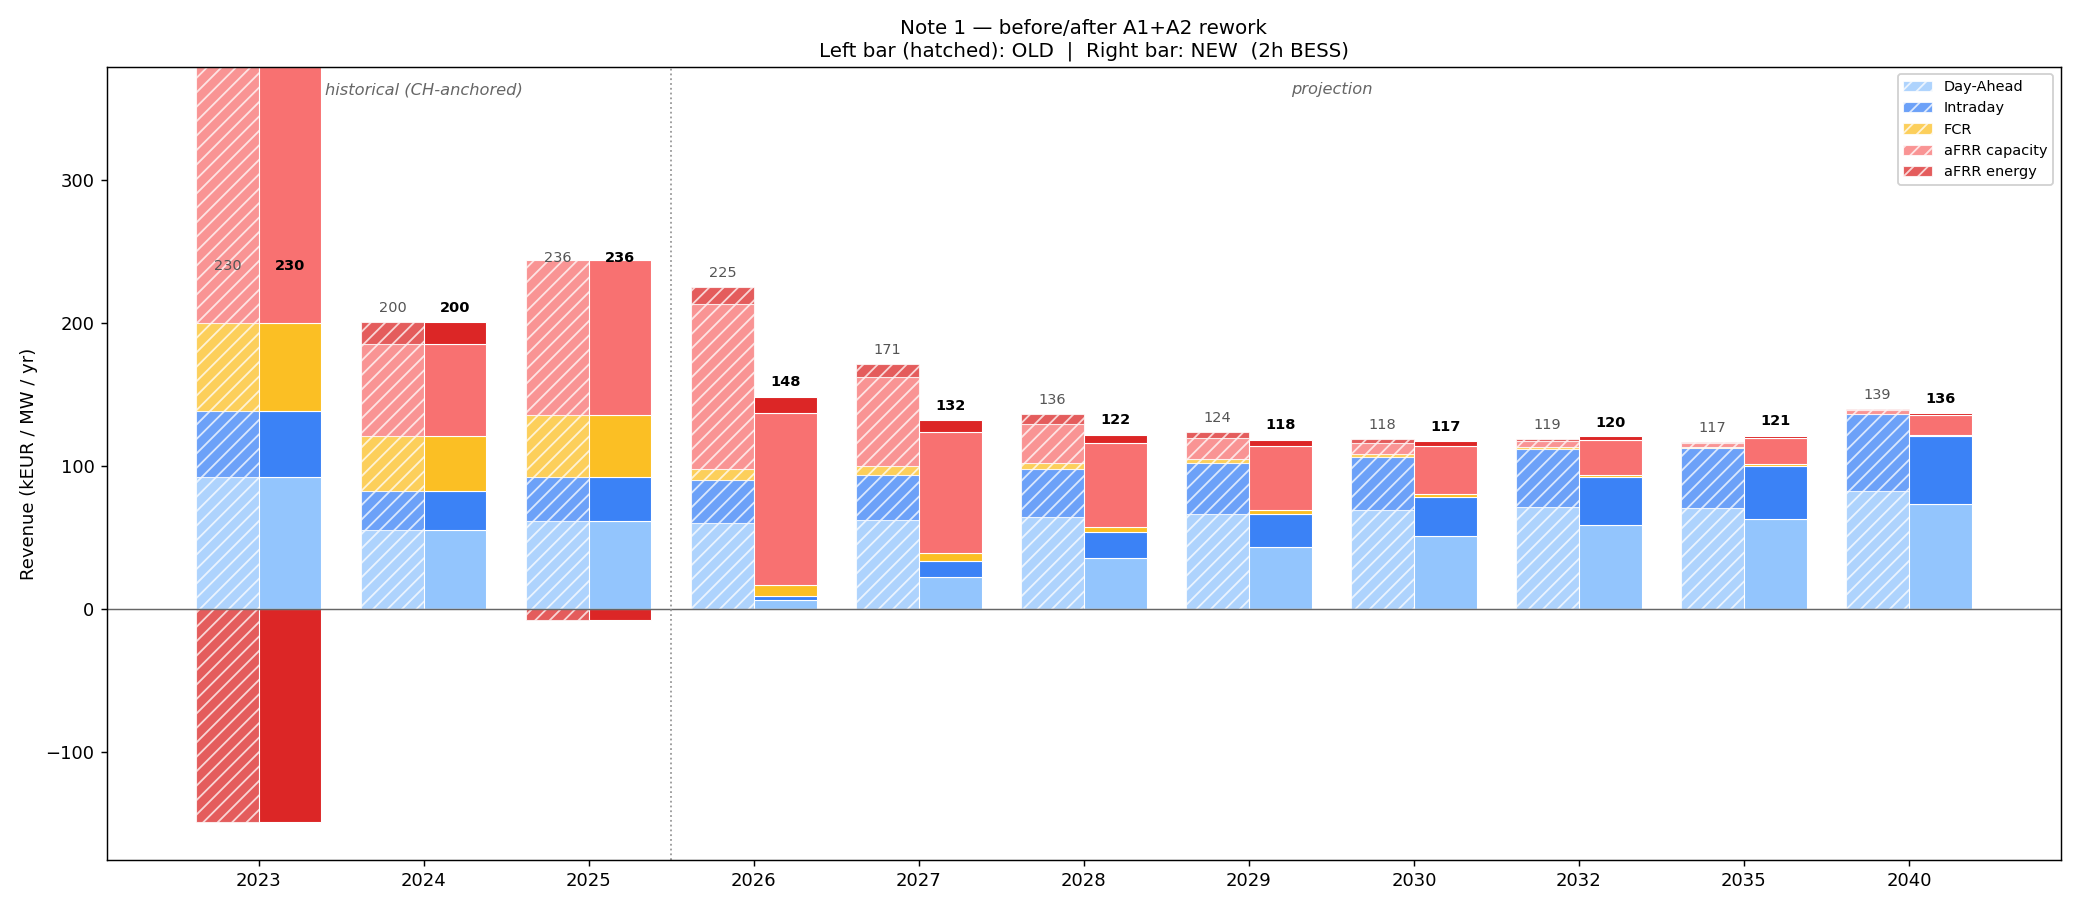
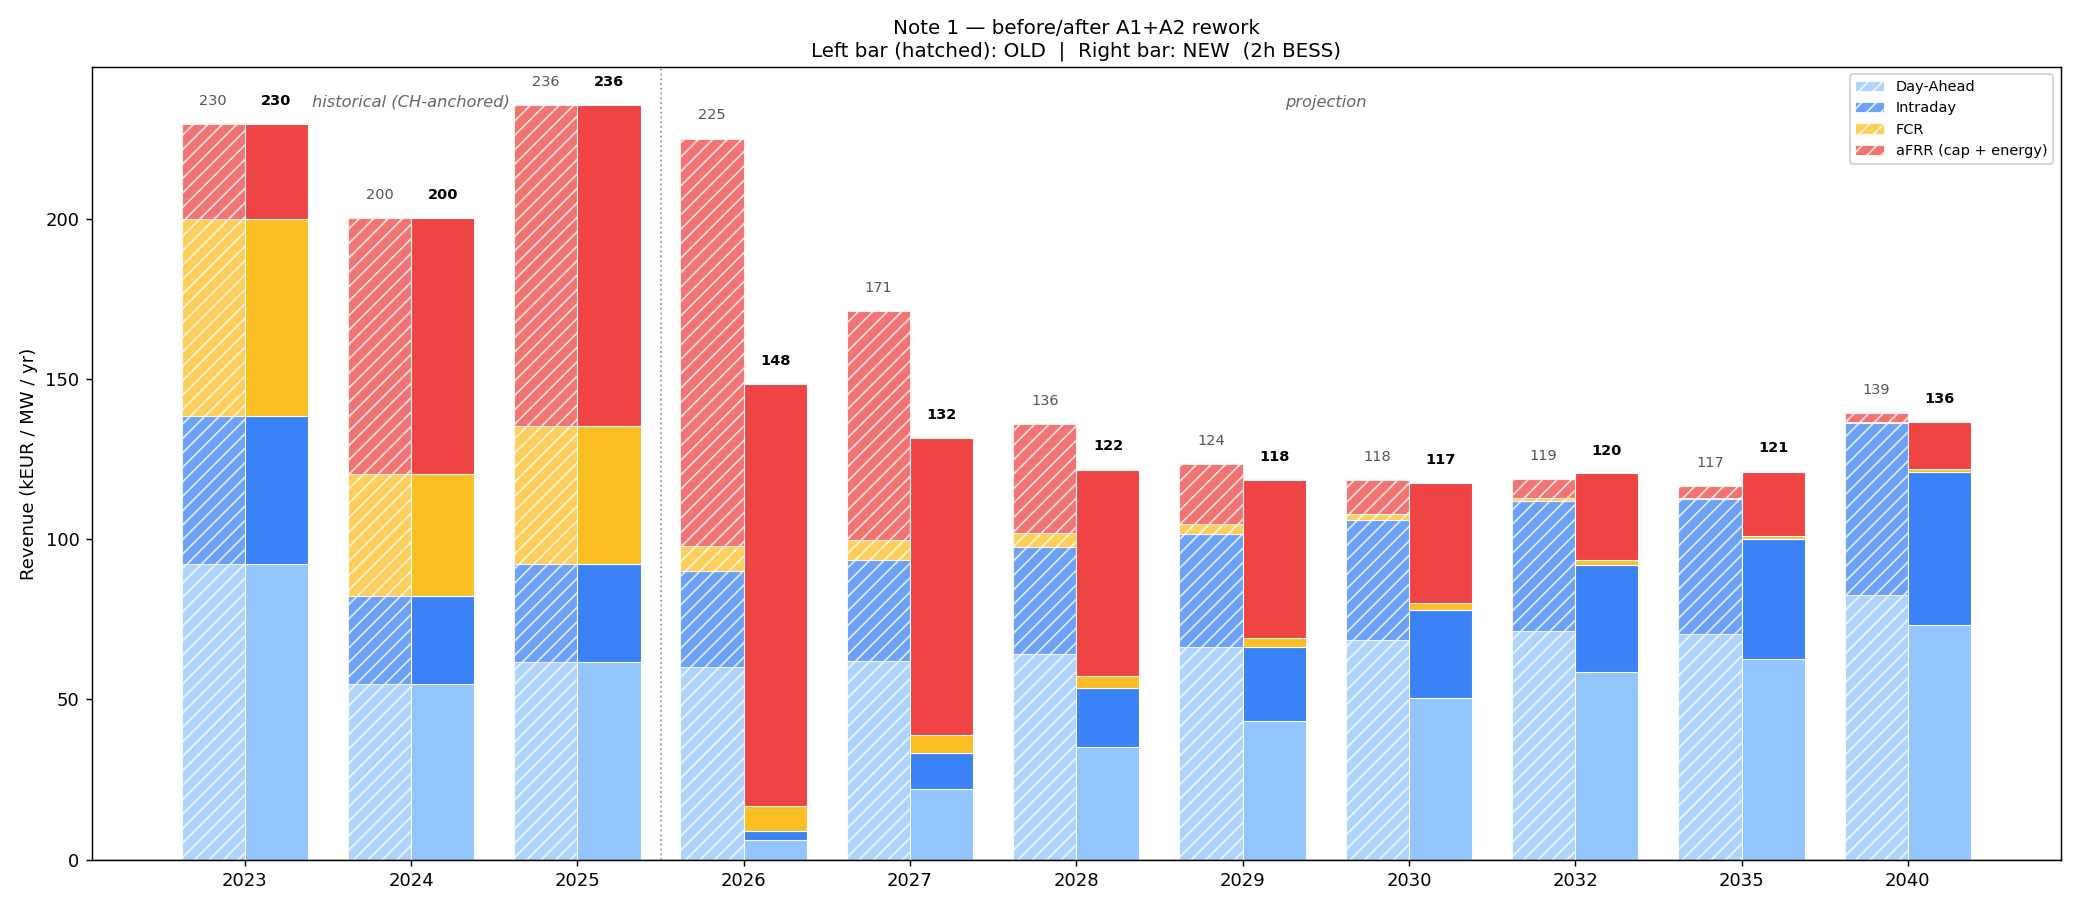
Note 1 deploy prep: combine aFRR cap+energy in stacked chart; source CAPEX
Visual correctness issue flagged by Anton: the stacked revenue chart
silently clipped negative aFRR energy values (yaxis range=[0, y_max]),
producing bars that visually sum to ~320 kEUR with total label 230 —
confusing readers. Cannot deploy as-is.

Fix: combine aFRR_cap + aFRR_energy into single "aFRR (cap + energy)"
bar at the display layer. Economically correct (net aFRR contribution
after activation-energy cost), visually always positive. The cap-vs-
energy split remains in the projection data (r26['afrr_cap'],
r26['afrr_energy']) for text and methodology references — only the
stacked chart geometry changed.

  STACK_KEYS: ["da","id","fcr","afrr_cap","afrr_energy"]
           → ["da","id","fcr","afrr"]

Also: replace the hardcoded "€200k/MW" CAPEX figure at Section 4 with a
sourced range "€180–230k/MW (BNEF 2H2024 LCOES and Lazard LCOS v17 for
Europe)". Closes the ROADMAP Note 1 improvement item "Source the €200k/MW
CAPEX assumption".

Before/after chart regenerated with the combined bar; historical 2023
aFRR bar visibly smaller (net 19 kEUR = cap 114 + energy -95); DA/FCR
grow correspondingly under s factor. 2026 projection now clearly shows
aFRR-cap-dominant equilibrium (f_on_as=0.9).

diff --git a/notes/de-bess-outlook/app.py b/notes/de-bess-outlook/app.py
@@ -145,15 +145,40 @@ proj_df = pd.DataFrame(proj)
 if not hist_bars_df.empty:
     proj_df = pd.concat([hist_bars_df, proj_df], ignore_index=True)
 
+
+def _add_afrr_combined(df: pd.DataFrame) -> pd.DataFrame:
+    """Adds `afrr = afrr_cap + afrr_energy` column — see STACK_KEYS comment
+    below for why we combine the two at the chart layer."""
+    if df.empty or "afrr" in df.columns:
+        return df
+    out = df.copy()
+    if "afrr_cap" in out.columns:
+        out["afrr"] = out["afrr_cap"].fillna(0) + out.get("afrr_energy", 0).fillna(0) \
+            if "afrr_energy" in out.columns else out["afrr_cap"].fillna(0)
+    return out
+
+
+proj_df = _add_afrr_combined(proj_df)
+
 # ── Chart setup ──────────────────────────────────────────────
-STACK_KEYS = ["da", "id", "fcr", "afrr_cap", "afrr_energy"]
+# aFRR capacity and aFRR energy are combined into one `afrr` bar. In years
+# when wholesale spreads justified paying for NEG-activation charge (e.g.
+# 2023), aFRR energy alone is NET NEGATIVE because operators pay TSO more
+# than they earn from POS discharge — the absorbed energy is then
+# recaptured through DA/ID peak-hour resale (the aFRR↔wholesale conjugate
+# coupling). Displaying aFRR energy as a negative stack bar alongside
+# positive components confuses readers and is clipped by the axis range
+# anyway. Combining gives the economically correct net aFRR contribution
+# per MW, at the cost of hiding the cap-vs-energy split (retained in
+# methodology copy and tooltips).
+STACK_KEYS = ["da", "id", "fcr", "afrr"]
 LABELS = {
     "da": "Day-Ahead", "id": "Intraday",
-    "fcr": "FCR", "afrr_cap": "aFRR capacity", "afrr_energy": "aFRR energy",
+    "fcr": "FCR", "afrr": "aFRR (cap + energy)",
 }
 COLORS = {
     "da": "#93c5fd", "id": "#3b82f6",
-    "fcr": "#fbbf24", "afrr_cap": "#f87171", "afrr_energy": "#dc2626",
+    "fcr": "#fbbf24", "afrr": "#ef4444",
 }
 hist_year_set = set(hist_rev.keys()) if hist_rev else set()
 
@@ -459,8 +484,10 @@ The model projects a floor of **~€{r_floor['total']:.0f}k/MW/year** around {fl
 growth fully compensates.
 
 For context:
-- A 2h BESS at current CAPEX of ~€200k/MW needs roughly **€50–60k/MW/year** to
-  cover debt service and return on equity over a 15-year life.
+- A 2h BESS at current installed CAPEX of **~€180–230k/MW** (BNEF 2H2024 LCOES
+  and Lazard LCOS v17 for Europe) needs roughly **€50–60k/MW/year** to cover
+  debt service and return on equity over a 15-year life. The range accommodates
+  regional and supplier variance; DE merchant projects cluster near the middle.
 - At €{r_floor['total']:.0f}k, there is {"a comfortable margin" if r_floor['total'] >= 80 else "a margin, but it's thin" if r_floor['total'] >= 60 else "a challenging outlook"}. Projects banking on
   ancillary revenue post-2030 face significant downside risk.
 - **Duration matters**: use the sidebar to switch between 1h, 2h, and 4h systems
@@ -1048,7 +1075,7 @@ By 2040, the fleet-average capacity factor is ~89%, meaning revenue per nameplat
 is ~11% lower than per effective MW. This is applied to both wholesale and ancillary
 revenue in the projection.
 
-See `config.py: fleet_degradation_factor()` for implementation.
+See `lib.models.degradation.fleet_average_capacity()` for implementation.
 """)
 
 with st.expander("Full data source table"):

diff --git a/scripts/note1_before_after_chart.py b/scripts/note1_before_after_chart.py
@@ -41,18 +41,23 @@ HIST_YEARS = [2023, 2024, 2025]
 PROJ_YEARS = [2026, 2027, 2028, 2029, 2030, 2032, 2035, 2040]
 ALL_YEARS = HIST_YEARS + PROJ_YEARS
 
-LABELS = ["da", "id", "fcr", "afrr_cap", "afrr_energy"]
+LABELS = ["da", "id", "fcr", "afrr"]
 COLORS = {
-    "da": "#93c5fd",        # light blue
-    "id": "#3b82f6",        # blue
-    "fcr": "#fbbf24",       # yellow
-    "afrr_cap": "#f87171",  # light red
-    "afrr_energy": "#dc2626",  # red
+    "da": "#93c5fd",     # light blue
+    "id": "#3b82f6",     # blue
+    "fcr": "#fbbf24",    # yellow
+    "afrr": "#ef4444",   # red — combined cap + activation energy
 }
 PRETTY = {
     "da": "Day-Ahead", "id": "Intraday",
-    "fcr": "FCR", "afrr_cap": "aFRR capacity", "afrr_energy": "aFRR energy",
+    "fcr": "FCR", "afrr": "aFRR (cap + energy)",
 }
+
+
+def _combine_afrr(row: dict) -> dict:
+    row = dict(row)
+    row["afrr"] = row.get("afrr_cap", 0) + row.get("afrr_energy", 0)
+    return row
 
 
 def _historical_dispatch_da(year: int, duration_h: float) -> float:
@@ -138,16 +143,16 @@ def build_old_new_rows(duration_h: float = 2.0) -> tuple[dict, dict]:
     old = {}
     new = {}
     for y in HIST_YEARS:
-        old[y] = _historical_bars_for(y, duration_h, use_real_energy=False)
-        new[y] = _historical_bars_for(y, duration_h, use_real_energy=True)
+        old[y] = _combine_afrr(_historical_bars_for(y, duration_h, use_real_energy=False))
+        new[y] = _combine_afrr(_historical_bars_for(y, duration_h, use_real_energy=True))
     proj_new = {
         r["year"]: r for r in project_full_stack(
             years=PROJ_YEARS, historical_da_keur=historical_da, duration_h=duration_h,
         )
     }
     for y in PROJ_YEARS:
-        old[y] = _legacy_projection_row(y, duration_h, historical_da)
-        new[y] = {k: proj_new[y].get(k, 0.0) for k in LABELS + ["total"]}
+        old[y] = _combine_afrr(_legacy_projection_row(y, duration_h, historical_da))
+        new[y] = _combine_afrr(proj_new[y])
     return old, new
 
 
